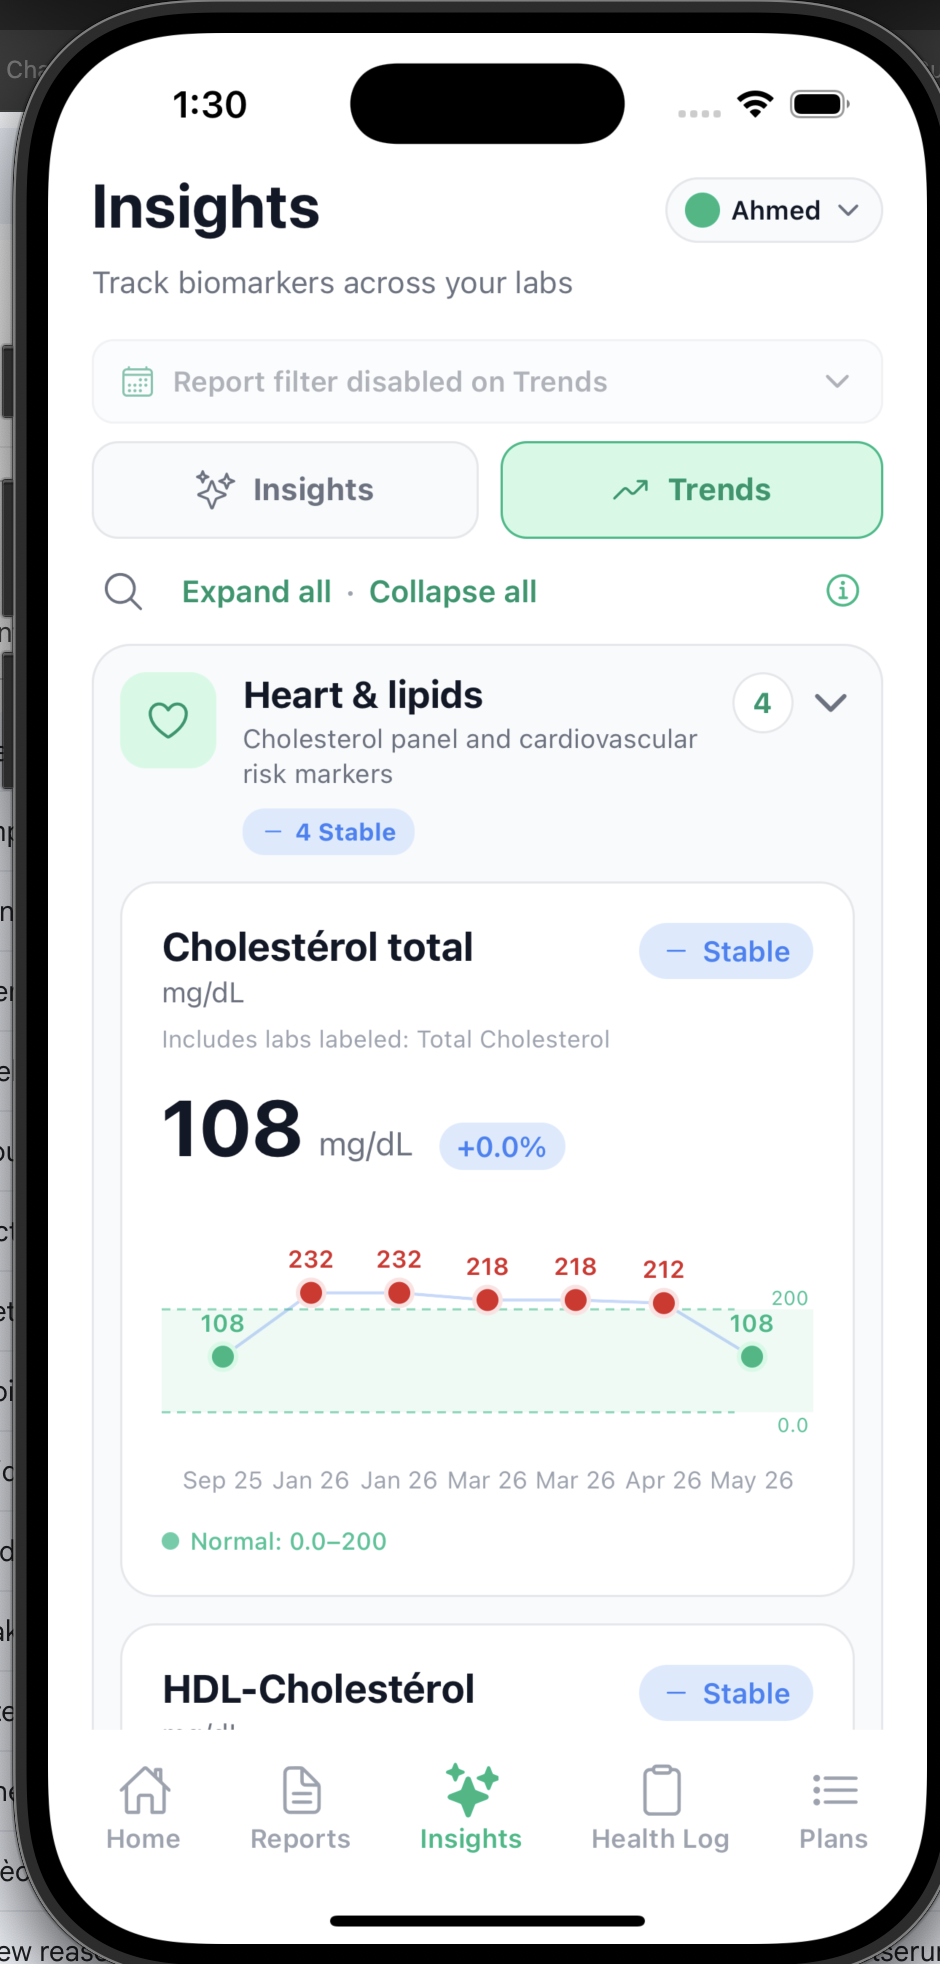
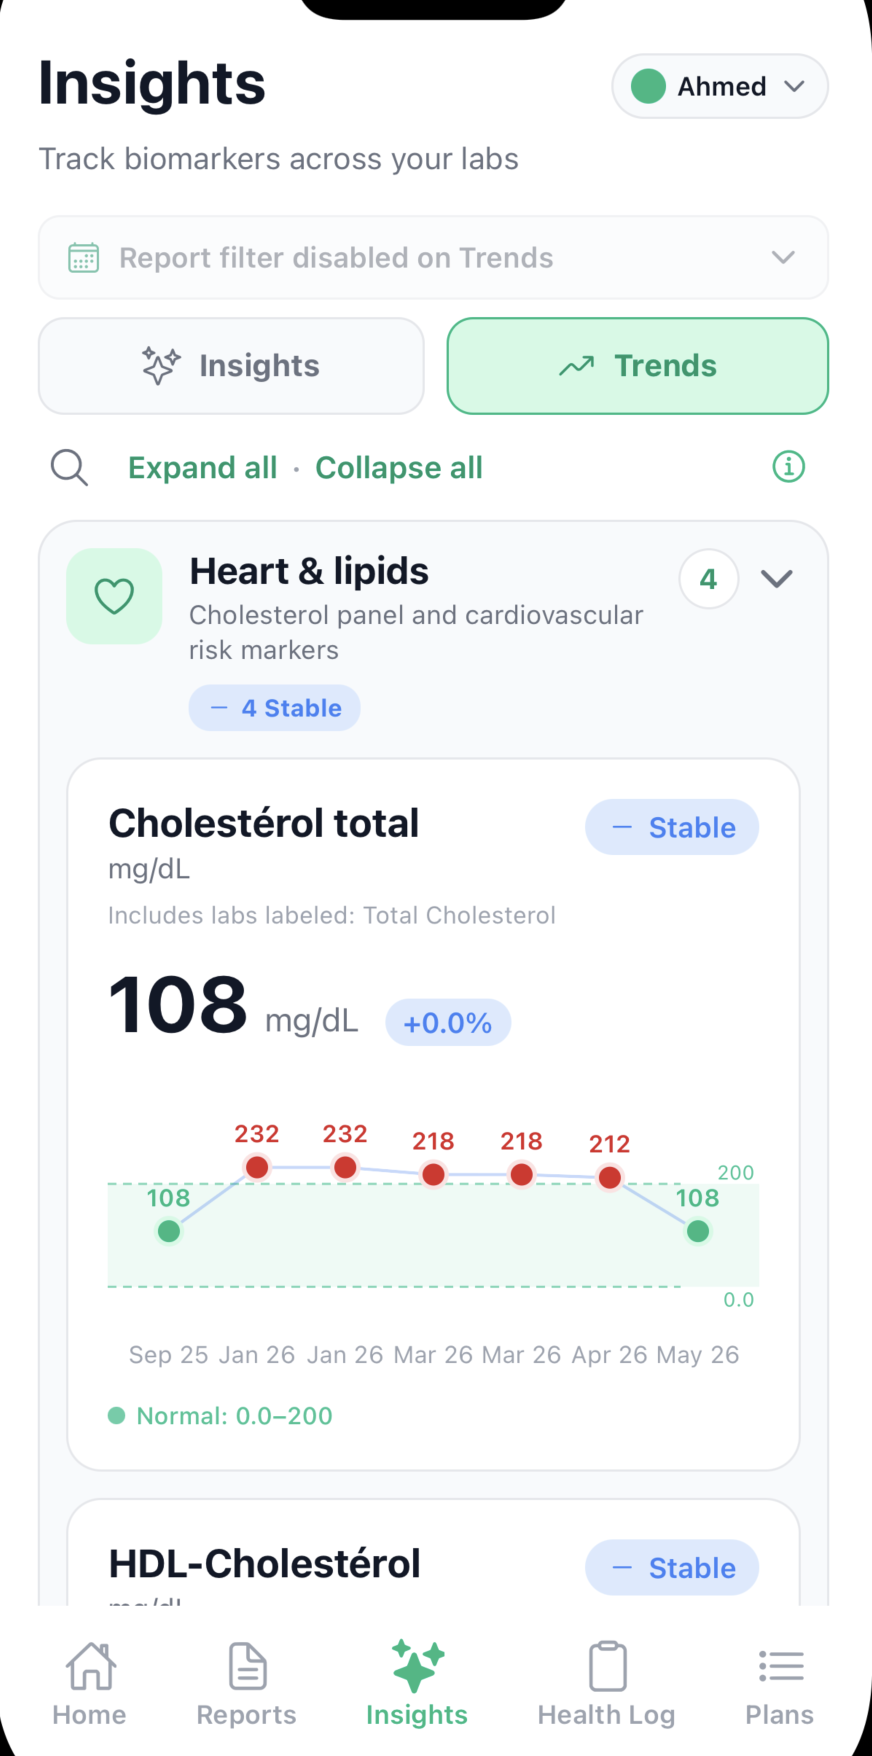
Fix screenshots: remove double frame, rename trends.png, iPhone only
- Remove CSS navy phone wrapper — screenshots already include phone hardware
- Display images natively with drop-shadow and float animation
- Use correct pixel dimensions per screenshot (878-884 x 1730-1780)
- Rename 'trends .png' → 'trends.png' (had a space breaking the path)
- Change 'iPhone & iPad' → 'iPhone' in hero and final CTA

diff --git a/src/components/landing/Hero.tsx b/src/components/landing/Hero.tsx
@@ -9,36 +9,36 @@ const SLIDES = [
   {
     src: "/home_page.png",
     alt: "Serumo home screen: report overview, progress story, and latest markers.",
-    width: 390,
-    height: 844,
+    width: 878,
+    height: 1780,
     caption: "Home",
   },
   {
     src: "/insights.png",
     alt: "Insights screen: markers needing attention with suggested actions.",
-    width: 390,
-    height: 844,
+    width: 878,
+    height: 1732,
     caption: "Insights",
   },
   {
     src: "/plans.png",
     alt: "Plans screen: daily health plan and active improvement steps.",
-    width: 390,
-    height: 844,
+    width: 884,
+    height: 1730,
     caption: "Plans",
   },
   {
     src: "/summary.png",
     alt: "Summary screen: AI-generated plain-language overview of your lab results.",
-    width: 390,
-    height: 844,
+    width: 880,
+    height: 1758,
     caption: "Summary",
   },
   {
     src: "/trends.png",
     alt: "Trends screen: biomarker charts across multiple lab visits.",
-    width: 390,
-    height: 844,
+    width: 872,
+    height: 1756,
     caption: "Trends",
   },
 ] as const;
@@ -119,79 +119,73 @@ const Hero = () => {
                   <StarRating />
                   <span className="text-[13.5px] font-bold text-navy">5.0</span>
                 </div>
-                <div className="text-[12.5px] text-slate2">Free to start · iPhone &amp; iPad</div>
+                <div className="text-[12.5px] text-slate2">Free to start · iPhone</div>
               </div>
             </div>
           </div>
 
-          {/* ── Right: phone frame + carousel ── */}
+          {/* ── Right: screenshot carousel ── */}
+          {/* Screenshots already include the phone hardware frame — no CSS wrapper needed */}
           <div
             className="flex justify-center animate-fade-up"
             style={{ animationDelay: "120ms" }}
           >
-            {/* Phone outer shell — 290px wide, navy frame */}
-            <div className="animate-float w-[290px]">
-              <div className="w-full rounded-[44px] bg-navy p-[11px] shadow-phone">
-                {/* Inner screen — exact 390:844 aspect ratio of the screenshots */}
-                <div
-                  className="relative rounded-[34px] overflow-hidden"
-                  style={{ aspectRatio: "390 / 844" }}
-                  role="region"
-                  aria-roledescription="carousel"
-                  aria-label="App screenshots"
-                >
-                  {/* Screenshot fills the frame completely */}
-                  <img
-                    key={slide.src}
-                    src={slide.src}
-                    alt={slide.alt}
-                    width={slide.width}
-                    height={slide.height}
-                    className="absolute inset-0 w-full h-full object-cover object-top select-none"
-                    loading={index === 0 ? "eager" : "lazy"}
-                    decoding="async"
-                    draggable={false}
+            <div
+              className="animate-float relative w-full max-w-[300px]"
+              role="region"
+              aria-roledescription="carousel"
+              aria-label="App screenshots"
+            >
+              {/* Screenshot image */}
+              <img
+                key={slide.src}
+                src={slide.src}
+                alt={slide.alt}
+                width={slide.width}
+                height={slide.height}
+                className="w-full h-auto block select-none drop-shadow-[0_30px_60px_rgba(15,27,45,0.35)]"
+                loading={index === 0 ? "eager" : "lazy"}
+                decoding="async"
+                draggable={false}
+              />
+
+              {/* Prev / Next — float over the screenshot */}
+              <Button
+                type="button"
+                variant="outline"
+                size="icon"
+                onClick={goPrev}
+                className="absolute left-2 top-1/2 z-20 h-9 w-9 -translate-y-1/2 rounded-full border-white/60 bg-white/85 shadow-md backdrop-blur-sm hover:bg-white"
+                aria-label="Previous screenshot"
+              >
+                <ChevronLeft className="h-4 w-4 text-navy" strokeWidth={2} />
+              </Button>
+              <Button
+                type="button"
+                variant="outline"
+                size="icon"
+                onClick={goNext}
+                className="absolute right-2 top-1/2 z-20 h-9 w-9 -translate-y-1/2 rounded-full border-white/60 bg-white/85 shadow-md backdrop-blur-sm hover:bg-white"
+                aria-label="Next screenshot"
+              >
+                <ChevronRight className="h-4 w-4 text-navy" strokeWidth={2} />
+              </Button>
+
+              {/* Dots */}
+              <div className="mt-4 flex items-center justify-center gap-2">
+                {SLIDES.map((s, i) => (
+                  <button
+                    key={s.src}
+                    type="button"
+                    onClick={() => setIndex(i)}
+                    className={cn(
+                      "h-1.5 rounded-full transition-all duration-300",
+                      i === index ? "w-6 bg-primary" : "w-1.5 bg-slate-300 hover:bg-slate-400",
+                    )}
+                    aria-label={`Show ${s.caption} screenshot`}
+                    aria-current={i === index ? "true" : undefined}
                   />
-
-                  {/* Prev / Next buttons */}
-                  <Button
-                    type="button"
-                    variant="outline"
-                    size="icon"
-                    onClick={goPrev}
-                    className="absolute left-1.5 top-1/2 z-20 h-8 w-8 -translate-y-1/2 rounded-full border-white/60 bg-white/80 shadow-md backdrop-blur-sm hover:bg-white"
-                    aria-label="Previous screenshot"
-                  >
-                    <ChevronLeft className="h-4 w-4 text-navy" strokeWidth={2} />
-                  </Button>
-                  <Button
-                    type="button"
-                    variant="outline"
-                    size="icon"
-                    onClick={goNext}
-                    className="absolute right-1.5 top-1/2 z-20 h-8 w-8 -translate-y-1/2 rounded-full border-white/60 bg-white/80 shadow-md backdrop-blur-sm hover:bg-white"
-                    aria-label="Next screenshot"
-                  >
-                    <ChevronRight className="h-4 w-4 text-navy" strokeWidth={2} />
-                  </Button>
-
-                  {/* Dots — pinned to bottom of phone screen */}
-                  <div className="absolute bottom-3 left-0 right-0 flex items-center justify-center gap-1.5">
-                    {SLIDES.map((s, i) => (
-                      <button
-                        key={s.src}
-                        type="button"
-                        onClick={() => setIndex(i)}
-                        className={cn(
-                          "h-1.5 rounded-full transition-all duration-300",
-                          i === index ? "w-6 bg-primary" : "w-1.5 bg-white/60 hover:bg-white/80",
-                        )}
-                        aria-label={`Show ${s.caption} screenshot`}
-                        aria-current={i === index ? "true" : undefined}
-                      />
-                    ))}
-                  </div>
-                </div>
+                ))}
               </div>
             </div>
           </div>

diff --git a/src/components/landing/FinalCTA.tsx b/src/components/landing/FinalCTA.tsx
@@ -47,7 +47,7 @@ const FinalCTA = () => {
         </a>
 
         <div className="mt-[18px] text-[13px] text-slate3">
-          ★★★★★ 5.0 · Free to start · iPhone &amp; iPad
+          ★★★★★ 5.0 · Free to start · iPhone
         </div>
       </div>
     </section>